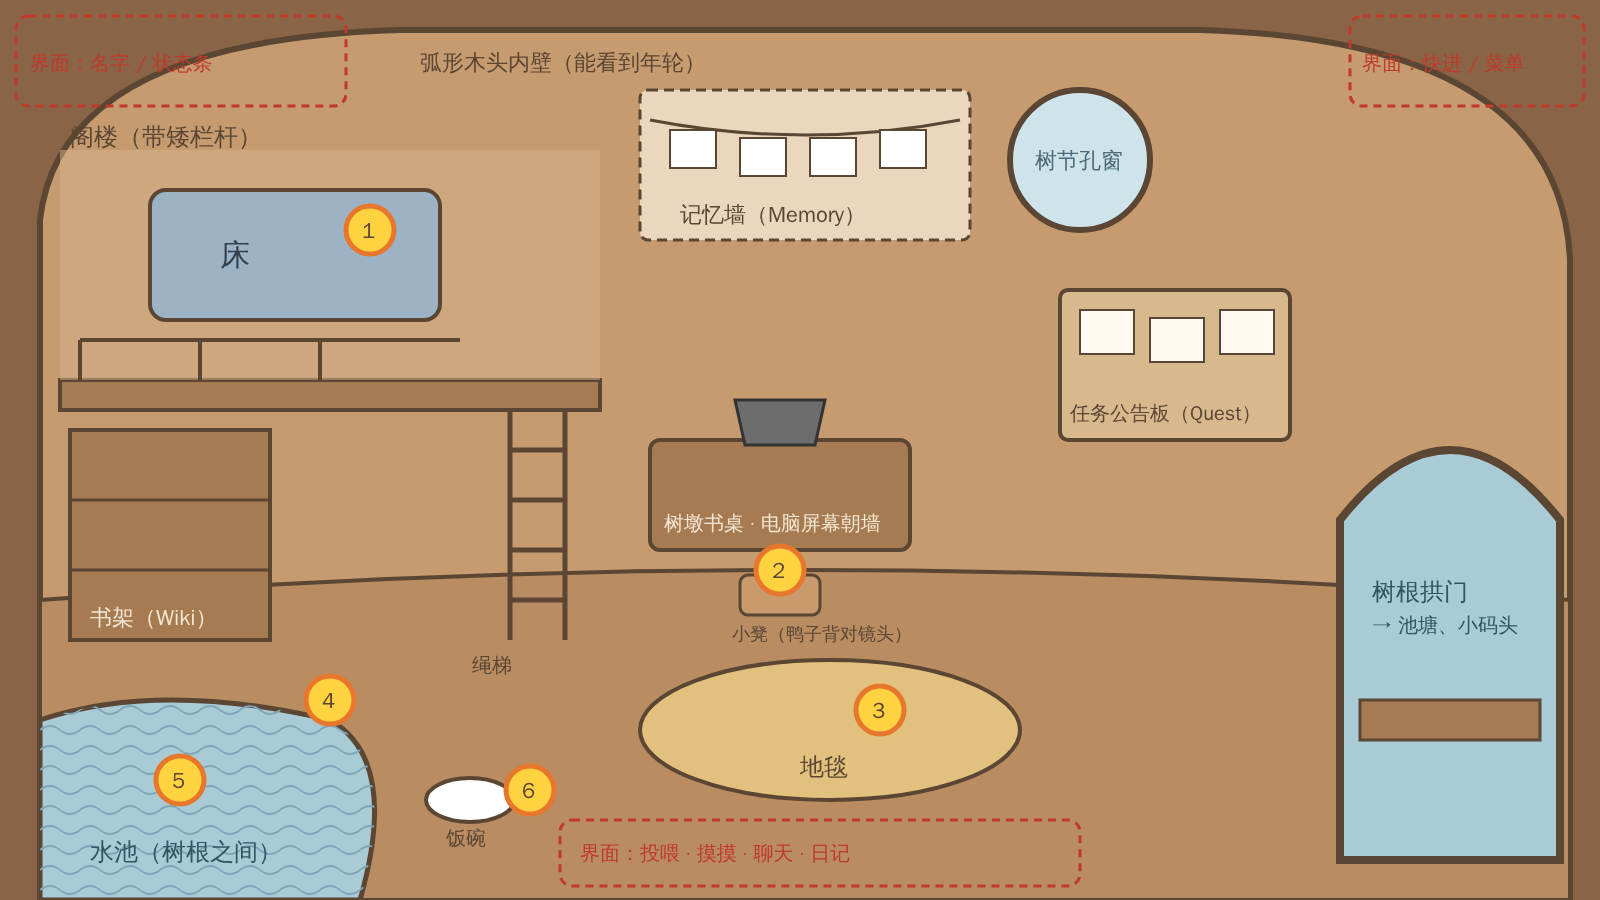
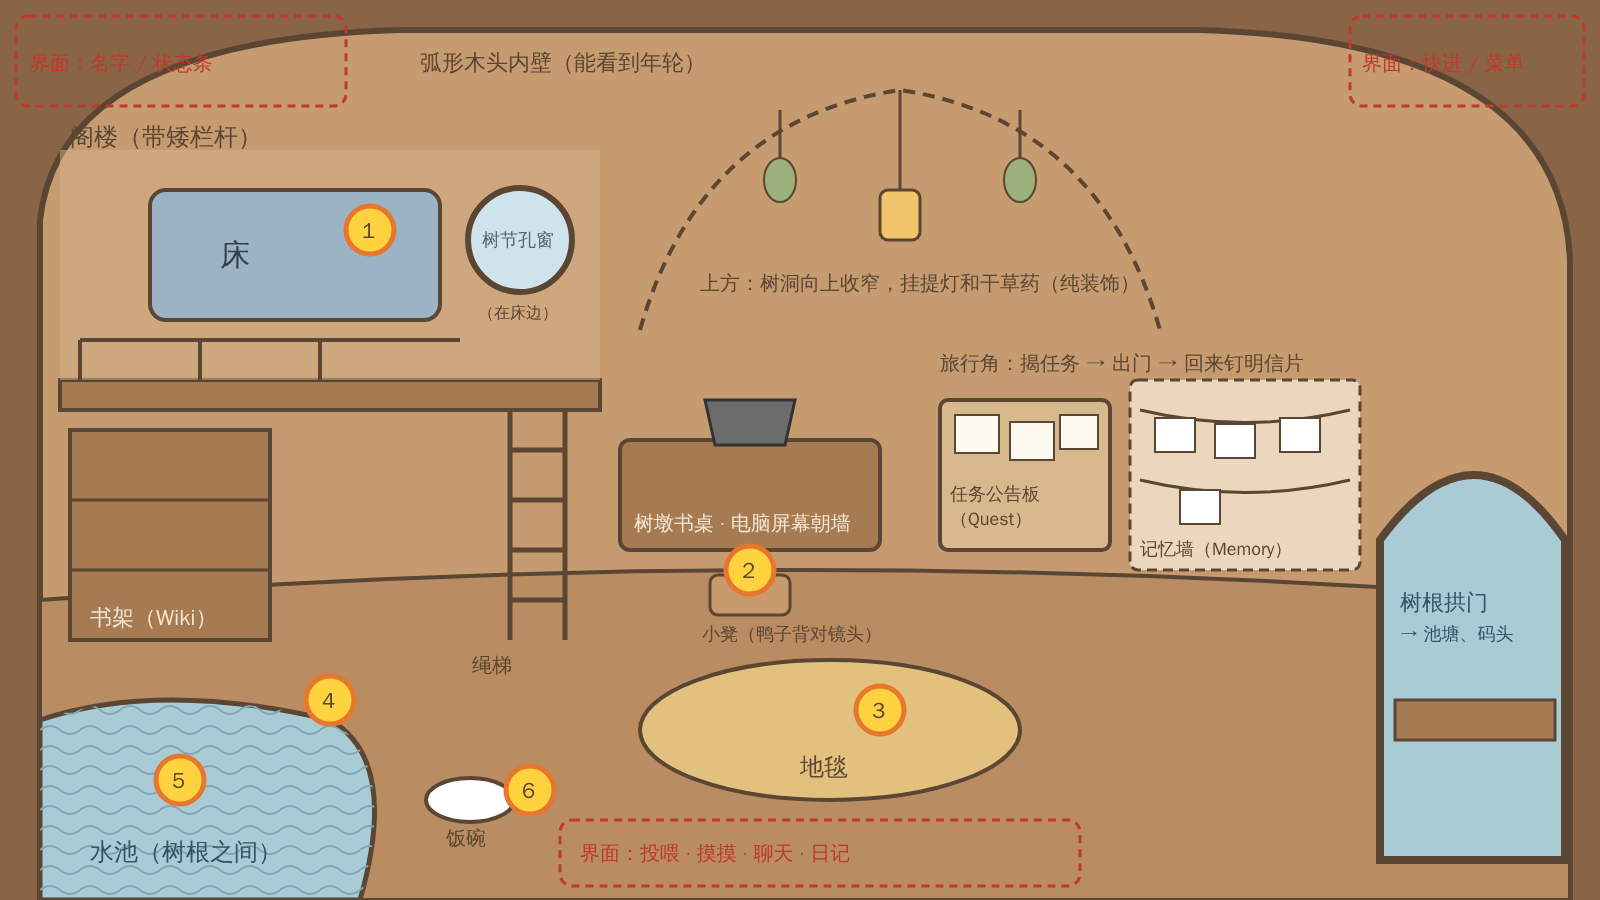
docs: 记忆墙移到门边旅行角、窗户移到阁楼床边，都在鸭子够得着的高度
Claude-Session: https://claude.ai/code/session_01Jqk9nnMUDNsj17DaMt5YFV

Changed region(s): [[0.375, 0.3111, 1.0, 0.9644], [0.2812, 0.0933, 0.7188, 0.3733]]

diff --git a/docs/art/GPT生图提示词-树洞小屋.md b/docs/art/GPT生图提示词-树洞小屋.md
@@ -10,7 +10,7 @@
 
 1. **改成横版**：作品是网页，主要在电脑上看。手机竖屏时，前端只显示画面的一部分，并自动对准鸭子所在的位置。
 2. **电脑朝向**：屏幕朝墙、凳子朝镜头，鸭子坐上去时是**背对我们写代码**，看得到它在敲键盘。
-3. **家具摆放更合理**：东西都要落在地面、桌面或墙上，不要悬空；阁楼加矮栏杆，绳梯从阁楼的开口垂下来；书架嵌进阁楼下方的壁龛里。
+3. **家具摆放更合理**：鸭子要用的东西都放在它够得着的高度——树节孔窗移到阁楼床边，记忆墙移到门边和任务公告板并排（「旅行角」：揭任务 → 出门 → 回来钉明信片），高处只挂提灯和干草药作装饰；东西都要落在地面、桌面或墙上，不要悬空；阁楼加矮栏杆，绳梯从阁楼的开口垂下来；书架嵌进阁楼下方的壁龛里。
 
 布局线框图：[`layout-treehouse-landscape.png`](layout-treehouse-landscape.png)。黄色编号是鸭子出现的位置，红色虚线框留给界面。
 
@@ -33,15 +33,15 @@ Use the first image I uploaded ONLY as the art style reference (keep exactly the
 A cozy web game background: a dollhouse cutaway view of the INSIDE of a hollow old tree beside a pond, seen from a slightly high angle, like looking into a dollhouse with the front wall removed. Curved warm wooden inner walls with growth rings. No characters, no animals, no ducks.
 
 Layout from left to right:
-- Upper left: a wooden plank loft with a low wooden railing, a small bed with a dusty-blue quilt on it. A rope ladder hangs down from an opening at the right edge of the loft to the floor.
+- Upper left: a wooden plank loft with a low wooden railing, a small bed with a dusty-blue quilt on it. Right next to the bed, at loft height, a round knothole window letting in soft light, so the bed is beside the window. A rope ladder hangs down from an opening at the right edge of the loft to the floor.
 - Lower left, under the loft: a bookshelf built into a niche in the wall, packed with old books and scrolls.
-- Top center, on the wall: postcards and instant photos hanging on twine with tiny clips. To its right, a round knothole window letting in soft light.
+- Upper center: the hollow narrows upward like a dome; nothing is mounted high on the walls. Only a lantern and a few bundles of dried herbs hang from the top on strings.
 - Center: a small desk made from a tree stump, standing against the back wall. On it, a tiny old laptop whose SCREEN FACES THE WALL (we see the back of the laptop lid), a desk lamp and a mug. A small round stool in front of the desk, on the viewer's side, so someone sitting there would be seen from behind.
-- Right wall: a cork board with pinned task cards and a hand-drawn map.
+- Right side, a small travel corner near the doorway, everything mounted LOW on the wall at the height of a small duck: a cork board with pinned task cards and a hand-drawn map, and next to it a memory wall of postcards and instant photos hanging on two strings of twine with tiny clips.
 - Far right: a big arched doorway formed by tree roots, opening onto the pond, with lily pads and a small wooden dock visible outside.
 - Floor: packed earth and thick roots. A round woven straw rug in the center. In the lower left corner, a small pool of clear pond water between the roots with duckweed, and a small food bowl on the floor beside it.
 - Every object rests on the floor, a table, a shelf or the wall; nothing floats in the air.
-- Leave small empty spots on the bed, on the stool, in the middle of the rug, at the edge of the pool and next to the bowl. Keep the top-left corner, top-right corner and bottom-center edge simple, because UI will cover them.
+- Everything a small duck needs to use is placed low, within its reach. Leave small empty spots on the bed, on the stool, in the middle of the rug, at the edge of the pool and next to the bowl. Keep the top-left corner, top-right corner and bottom-center edge simple, because UI will cover them.
 
 Art style: same as the reference image. Hand-drawn picture-book illustration, thin dark brown outlines of even weight, slightly wobbly. Flat color fills, shadows only one slightly darker flat shade, no gradients, no glossy highlights, no realistic lighting. Subtle paper grain. Muted low-saturation palette of warm wood browns, beige, moss green and dusty blue.
 
@@ -58,15 +58,15 @@ Avoid: portrait composition, exterior view, characters or animals, mushroom stai
 网页游戏背景：池塘边老树的树洞「内部」，娃娃屋剖面视角，略从上方看进去。弧形暖色木头内壁，有年轮。没有任何角色、动物或鸭子。
 
 从左到右：
-- 左上：带矮木栏杆的木板阁楼，上面有一张盖着雾蓝色被子的小床；阁楼右侧开口处垂下一架绳梯到地面。
+- 左上：带矮木栏杆的木板阁楼，上面有一张盖着雾蓝色被子的小床；床边、和阁楼同一高度有一个圆形树节孔窗，透进柔和的光；阁楼右侧开口处垂下一架绳梯到地面。
 - 左下（阁楼下方）：嵌在墙壁壁龛里的书架，塞满旧书和卷轴。
-- 中上墙面：麻绳小夹子挂着明信片和拍立得；右边一个圆形树节孔窗，透进柔和的光。
+- 中上方：树洞向上收窄成穹顶，高处墙上不挂任何东西，只从顶上用绳子垂下一盏提灯和几束干草药。
 - 中间：靠后墙的树墩小书桌，桌上一台小旧笔记本电脑，屏幕朝墙（我们看到的是电脑背面）、台灯和马克杯；书桌前、靠观众这一侧放一张小圆凳，坐在上面的人是背对我们的。
-- 右墙：软木板，钉着任务卡片和手绘地图。
+- 右侧靠近门的「旅行角」，所有东西都挂在**小鸭子够得着的低处**：一块软木任务板，钉着任务卡片和手绘地图；旁边是记忆墙，两串麻绳和小夹子挂着明信片和拍立得。
 - 最右：树根形成的大拱门，通向池塘，门外有荷叶和小木码头。
 - 地面：压实的泥土和粗树根，中央一块圆形草编地毯；左下角树根之间一小汪清澈池水和浮萍，旁边地上一个小饭碗。
 - 所有东西都放在地面、桌面、架子或墙上，不要悬空。
-- 床上、凳子上、地毯中央、水边、饭碗旁各留一小块空位。左上角、右上角和底部中间保持简单，界面会盖在那里。
+- 小鸭子要用的东西都放在它够得着的低处。床上、凳子上、地毯中央、水边、饭碗旁各留一小块空位。左上角、右上角和底部中间保持简单，界面会盖在那里。
 
 画风：和参考图一致。手绘绘本插画，深棕色细描边，粗细统一、略带手抖；扁平上色，阴影只用深一档的纯色，无渐变、无高光、无写实光影；淡淡纸张颗粒；低饱和的暖木棕、米色、苔绿、雾蓝。
 
@@ -121,7 +121,7 @@ The room: curved warm wooden inner walls with visible growth rings and bark text
 - Floor: packed earth and thick tree roots, a round woven straw rug in the middle; in the lower left, a small pool of clear pond water between the roots with a few duckweed leaves, and a small food bowl beside it; in the lower right, an arched doorway between the roots opening onto the pond, with lily pads and a small wooden dock visible outside.
 - Foreground: a few curved roots and reeds at the bottom edge for depth.
 - Many small handmade objects: clay jars, dried flowers, a yarn ball, small potted plants, rope, a lantern. Cluttered but tidy, lived-in.
-- Leave small empty spots on the bed, in front of the desk, in the middle of the rug, at the edge of the water and next to the bowl. Keep the four corners of the image simple.
+- Everything a small duck needs to use is placed low, within its reach. Leave small empty spots on the bed, in front of the desk, in the middle of the rug, at the edge of the water and next to the bowl. Keep the four corners of the image simple.
 
 Art style: hand-drawn picture-book illustration for a cozy idle mobile game. Thin dark brown outlines of even weight, slightly wobbly and imperfect like drawn with a fine pen. Flat color fills; shadows are just one slightly darker flat shade, no gradients, no glossy highlights, no realistic lighting. Subtle paper grain texture. Muted, low-saturation palette: warm grey, beige, ochre and natural wood brown, moss and sage green, dusty blue, with tiny accents of coral red and mustard yellow. Simple, charming shapes; calm, quiet, cozy mood.
 
